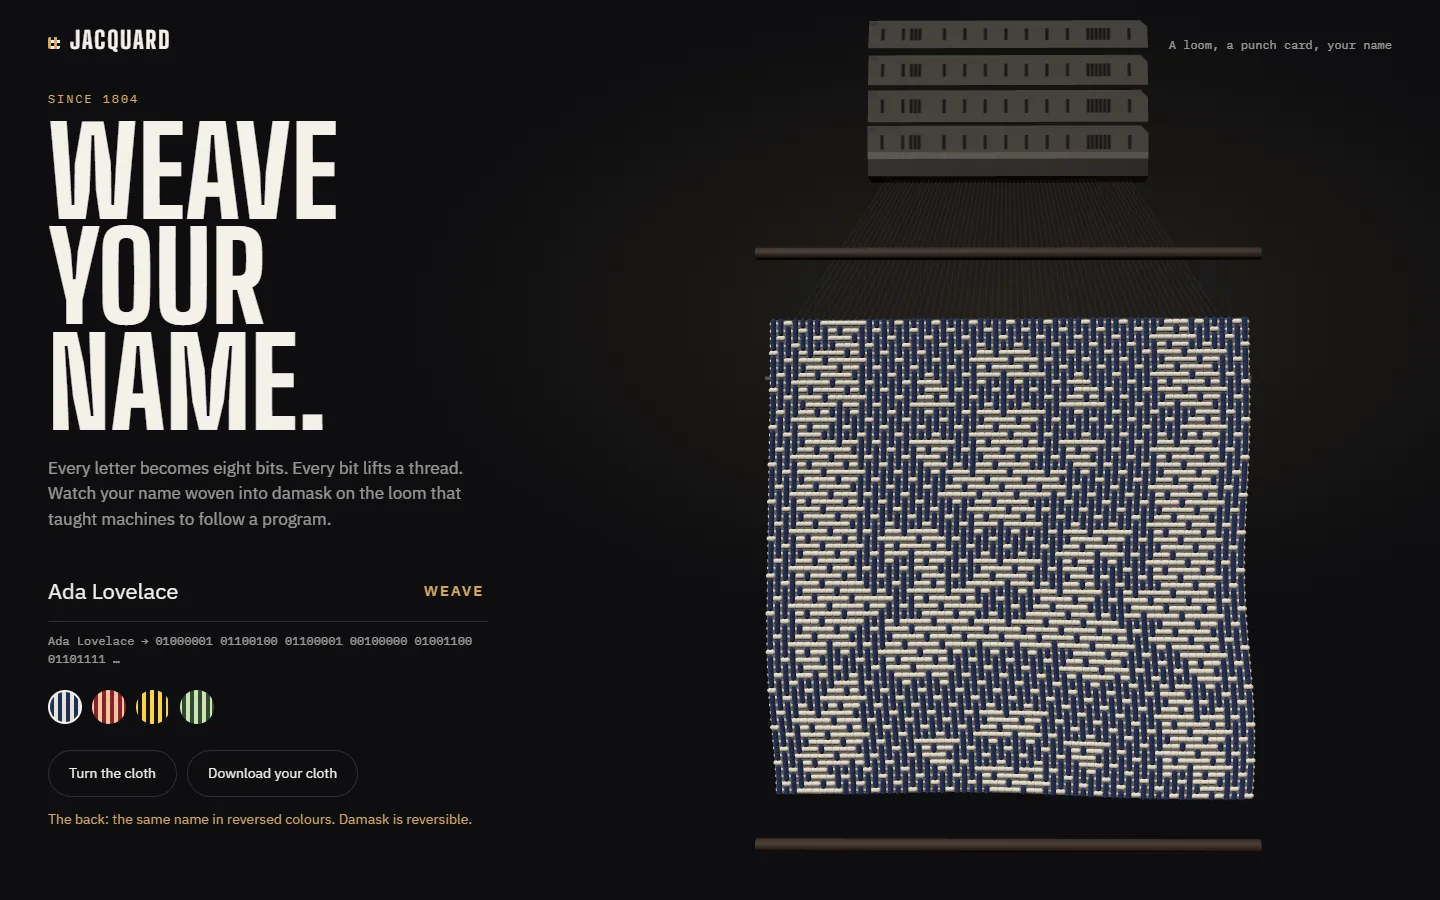
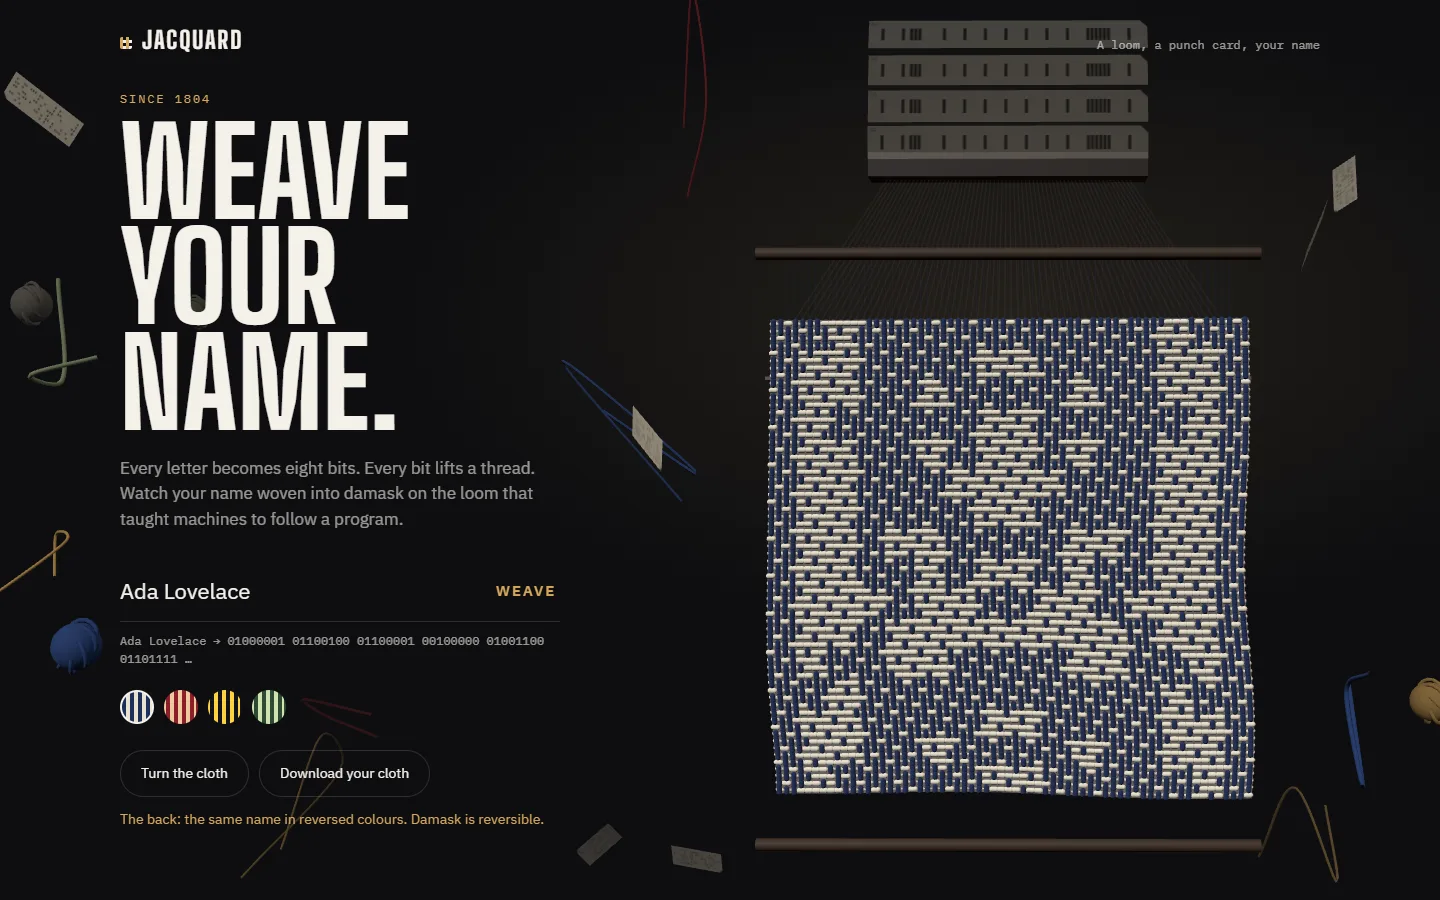
End-to-end tests, render on demand with reduced motion, README
Playwright covers weaving from a link, new names, the empty-name fallback,
turning the cloth, the PNG download, the colour picker and the timeline,
on desktop and mobile, and runs in CI. With reduced motion both 3D layers
now draw only when something changes instead of every frame. THREE.Clock
replaced by THREE.Timer. README documents the cosmos, timeline and tests.

diff --git a/src/loom.ts b/src/loom.ts
@@ -42,7 +42,7 @@ export class Loom {
   private uniforms = { uTime: { value: 0 }, uWave: { value: 0 }, uTop: { value: 0 }, uHeight: { value: 1 } };
   private resize: ResizeObserver;
   private frame = 0;
-  private clock = new THREE.Clock();
+  private timer = new THREE.Timer();
   private pointer = new THREE.Vector2();
   private cells: Uint8Array = new Uint8Array();
   private progress = 0; // rows woven, fractional
@@ -53,6 +53,8 @@ export class Loom {
   private turnTarget = 0;
   private drag: { x: number; turn: number } | null = null;
   private side: "front" | "back" = "front";
+  /** With reduced motion nothing animates, so only draw when something has changed. */
+  private dirty = true;
   private readonly rows: number;
   private readonly cols: number;
   private readonly width: number;
@@ -172,6 +174,7 @@ export class Loom {
     for (const card of this.cards) card.row = -1;
     this.setPalette(palette);
     this.layout(true);
+    this.dirty = true;
   }
 
   /** Recolours the cloth in place, without re-weaving. */
@@ -186,12 +189,15 @@ export class Loom {
     for (const layer of [this.front, this.back]) if (layer.instanceColor) layer.instanceColor.needsUpdate = true;
     (this.warp.material as THREE.LineBasicMaterial).color.copy(warp);
     (this.backing.material as THREE.MeshStandardMaterial).color.copy(warp.clone().lerp(weft, 0.5).multiplyScalar(0.4));
+    this.dirty = true;
   }
 
   /** Turns the finished cloth to show its other face. */
   turnOver() {
     if (this.phase === "weaving") return;
     this.turnTarget = Math.round(this.turnTarget / Math.PI) * Math.PI + Math.PI;
+    if (this.reducedMotion) this.turn = this.turnTarget; // no slow turn, just show the other side
+    this.dirty = true;
   }
 
   dispose() {
@@ -230,7 +236,11 @@ export class Loom {
   private onPointer = (event: PointerEvent) => {
     const rect = this.container.getBoundingClientRect();
     this.pointer.set(((event.clientX - rect.left) / rect.width) * 2 - 1, ((event.clientY - rect.top) / rect.height) * 2 - 1);
-    if (this.drag) this.turnTarget = this.drag.turn + (event.clientX - this.drag.x) * 0.012;
+    if (this.drag) {
+      this.turnTarget = this.drag.turn + (event.clientX - this.drag.x) * 0.012;
+      if (this.reducedMotion) this.turn = this.turnTarget;
+      this.dirty = true;
+    }
   };
 
   private onDown = (event: PointerEvent) => {
@@ -245,6 +255,8 @@ export class Loom {
     this.container.style.cursor = "";
     // settle on whichever face is nearer
     this.turnTarget = Math.round(this.turnTarget / Math.PI) * Math.PI;
+    if (this.reducedMotion) this.turn = this.turnTarget;
+    this.dirty = true;
   };
 
   private setSide(side: "front" | "back") {
@@ -264,6 +276,7 @@ export class Loom {
     if (this.camera.aspect > 1.25) this.camera.setViewOffset(w, h, -w * 0.2, 0, w, h);
     else this.camera.clearViewOffset();
     this.camera.updateProjectionMatrix();
+    this.dirty = true;
   }
 
   private x = (col: number) => (col - (this.cols - 1) / 2) * SPACING;
@@ -396,8 +409,11 @@ export class Loom {
 
   private loop = () => {
     this.frame = requestAnimationFrame(this.loop);
-    const dt = Math.min(this.clock.getDelta(), 0.1);
-    const t = this.clock.elapsedTime;
+    if (this.reducedMotion && !this.dirty) return;
+    this.dirty = false;
+    this.timer.update();
+    const dt = Math.min(this.timer.getDelta(), 0.1);
+    const t = this.timer.getElapsed();
     this.uniforms.uTime.value = t;
 
     if (this.phase === "weaving") {

diff --git a/e2e/loom.spec.ts b/e2e/loom.spec.ts
@@ -1,0 +1,66 @@
+import { expect, test } from "@playwright/test";
+
+test.describe("weaving a name", () => {
+  test("weaves the name from a shared link and finishes the cloth", async ({ page }) => {
+    await page.goto("/?name=Ada%20Lovelace");
+    await expect(page.getByLabel("Your name", { exact: true })).toHaveValue("Ada Lovelace");
+    await expect(page.locator("#binary")).toContainText("Ada Lovelace → 01000001 01100100");
+    await expect(page.locator("#card-count")).toHaveText("64 / 64");
+    await expect(page.getByRole("button", { name: "Download your cloth" })).toBeEnabled();
+    await expect(page.locator("#side")).toContainText("Off the loom");
+  });
+
+  test("weaves a new name and puts it in the link", async ({ page }) => {
+    await page.goto("/");
+    await page.getByLabel("Your name", { exact: true }).fill("Anu");
+    await page.getByRole("button", { name: "Weave" }).click();
+    await expect(page).toHaveURL(/name=Anu/);
+    await expect(page.locator("#binary")).toHaveText("Anu → 01000001 01101110 01110101");
+  });
+
+  test("an empty name falls back to the default", async ({ page }) => {
+    await page.goto("/");
+    await page.getByLabel("Your name", { exact: true }).fill("   ");
+    await page.getByRole("button", { name: "Weave" }).click();
+    await expect(page.locator("#binary")).toContainText("JACQUARD →");
+  });
+});
+
+test.describe("the finished cloth", () => {
+  test("turns over to show the reversed back, and back again", async ({ page }) => {
+    await page.goto("/?name=Ada");
+    const turn = page.getByRole("button", { name: "Turn the cloth" });
+    await expect(turn).toBeEnabled();
+    await turn.click();
+    await expect(page.locator("#side")).toContainText("The back", { timeout: 10_000 });
+    await turn.click();
+    await expect(page.locator("#side")).toContainText("The front", { timeout: 10_000 });
+  });
+
+  test("downloads the cloth as a PNG named after the weaver", async ({ page }) => {
+    await page.goto("/?name=Ada%20Lovelace");
+    const download = page.waitForEvent("download");
+    await page.getByRole("button", { name: "Download your cloth" }).click();
+    expect((await download).suggestedFilename()).toBe("jacquard-ada-lovelace.png");
+  });
+
+  test("lets you pick the thread colours", async ({ page }) => {
+    await page.goto("/?name=Ada");
+    const madder = page.getByRole("radio", { name: "Madder" });
+    await madder.click();
+    await expect(madder).toHaveAttribute("aria-checked", "true");
+    await expect(page.getByRole("radio", { name: "Indigo" })).toHaveAttribute("aria-checked", "false");
+  });
+});
+
+test("the timeline marks each era as you reach it", async ({ page }) => {
+  await page.goto("/?name=Ada");
+  const eras = page.locator(".era");
+  await expect(eras).toHaveCount(4);
+  for (let i = 0; i < 4; i++) {
+    // the 3D layers keep the page moving, so scroll directly rather than waiting for it to settle
+    await eras.nth(i).evaluate((el) => el.scrollIntoView({ block: "center" }));
+    await expect(eras.nth(i)).toHaveClass(/in/);
+  }
+  await expect(page.locator(".era h3").last()).toHaveText("Your cloth");
+});

diff --git a/src/cosmos.ts b/src/cosmos.ts
@@ -63,9 +63,14 @@ export class Cosmos {
   private anchors: Anchor[] = [];
   private unitsPerPixel = 1;
   private frame = 0;
-  private clock = new THREE.Clock();
+  private timer = new THREE.Timer();
   private swatchTexture: THREE.CanvasTexture | null = null;
   private readonly reducedMotion = window.matchMedia("(prefers-reduced-motion: reduce)").matches;
+  /** With reduced motion only the scroll moves things, so only draw when it (or the layout) changes. */
+  private dirty = true;
+  private markDirty = () => {
+    this.dirty = true;
+  };
 
   constructor(private canvasHost: HTMLElement) {
     this.renderer = new THREE.WebGLRenderer({ antialias: true, alpha: true });
@@ -80,6 +85,7 @@ export class Cosmos {
     this.scene.add(key);
 
     window.addEventListener("resize", this.fit);
+    window.addEventListener("scroll", this.markDirty, { passive: true });
     this.fit();
     this.populate();
     this.loop();
@@ -226,6 +232,7 @@ export class Cosmos {
       }
     }
     this.swatchTexture.needsUpdate = true;
+    this.dirty = true;
   }
 
   private fit = () => {
@@ -236,6 +243,7 @@ export class Cosmos {
     this.camera.updateProjectionMatrix();
     this.unitsPerPixel = (2 * Math.tan(THREE.MathUtils.degToRad(FOV / 2)) * CAMERA_Z) / h;
     this.place();
+    this.dirty = true;
   };
 
   /** Converts each anchor element's page position into world space at depth 0. */
@@ -254,7 +262,10 @@ export class Cosmos {
 
   private loop = () => {
     this.frame = requestAnimationFrame(this.loop);
-    const t = this.clock.getElapsedTime();
+    if (this.reducedMotion && !this.dirty) return;
+    this.dirty = false;
+    this.timer.update();
+    const t = this.timer.getElapsed();
     this.camera.position.set(0, -window.scrollY * this.unitsPerPixel, CAMERA_Z);
 
     if (!this.reducedMotion) {
@@ -277,11 +288,13 @@ export class Cosmos {
   /** Re-measures anchors after layout changes (fonts loading, images, resize). */
   refresh() {
     this.place();
+    this.dirty = true;
   }
 
   dispose() {
     cancelAnimationFrame(this.frame);
     window.removeEventListener("resize", this.fit);
+    window.removeEventListener("scroll", this.markDirty);
     this.renderer.dispose();
     this.canvasHost.removeChild(this.renderer.domElement);
   }

diff --git a/playwright.config.ts b/playwright.config.ts
@@ -1,0 +1,22 @@
+import { defineConfig, devices } from "@playwright/test";
+
+export default defineConfig({
+  testDir: "e2e",
+  timeout: 60_000,
+  // every page renders two WebGL scenes continuously; more parallel browsers starve the machine
+  workers: 2,
+  use: {
+    baseURL: "http://127.0.0.1:5199",
+    // with reduced motion the loom finishes at once, so tests don't wait for the animation
+    reducedMotion: "reduce",
+  },
+  projects: [
+    { name: "desktop", use: { ...devices["Desktop Chrome"], viewport: { width: 1440, height: 900 } } },
+    { name: "mobile", use: { ...devices["Pixel 7"] } },
+  ],
+  webServer: {
+    command: "npx vite --port 5199 --strictPort --host 127.0.0.1",
+    url: "http://127.0.0.1:5199",
+    reuseExistingServer: !process.env.CI,
+  },
+});

diff --git a/vite.config.ts b/vite.config.ts
@@ -1,0 +1,6 @@
+import { defineConfig } from "vitest/config";
+
+export default defineConfig({
+  // unit tests live next to the code; Playwright specs in e2e/ run separately
+  test: { include: ["src/**/*.test.ts"] },
+});

diff --git a/README.md b/README.md
@@ -29,7 +29,21 @@ The logic lives in [`src/weave.ts`](src/weave.ts) and is unit-tested, including 
 
 The finished cloth can be downloaded as a PNG, drawn flat thread by thread in [`src/export.ts`](src/export.ts). A link with `?name=` weaves that name.
 
+## The page around it
+
+- **A fibre cosmos.** [`src/cosmos.ts`](src/cosmos.ts) is a second, fixed Three.js layer behind the whole page: loose threads, yarn balls and stray punch cards at different depths. The camera moves down exactly as fast as the page scrolls, so things further back drift slower and closer ones faster. Near the loom they keep to the open lanes beside the text, so nothing crosses the cloth.
+- **A timeline hung on a thread.** The history below the loom hangs on a single warp thread that fills in brass as you read. Each era slides in from its side, and a 3D prop is pinned beside it by measuring the page element's position: a chain of laced cards (1804), two meshing brass gears turning at the right ratio (1843), a fanned stack of tabulator cards (1890) and a swatch of the cloth you just wove (now).
+
+![The timeline: the 1804 card sits on the brass thread, with a chain of punch cards beside it](docs/timeline.webp)
+
 Type is IBM Plex, a nod to the punch-card lineage, with Big Shoulders Display for the machine.
+
+## Tests
+
+- **Unit** (Vitest, `npm test`): the bits, the draft, the satin, mirroring and binding.
+- **End to end** (Playwright, `npm run test:e2e`, desktop and mobile): weaving from a shared link, a new name updating the link, the empty-name fallback, turning the cloth over and back, the PNG download and its filename, the colour picker, and each era of the timeline coming in as you scroll. They run with reduced motion, so the loom finishes at once.
+
+Both run in CI on every push.
 
 ## Stack
 
@@ -41,5 +55,6 @@ Three.js · TypeScript · Vite · Vitest · no framework
 npm install
 npm run dev
 npm test
+npm run test:e2e
 npm run build
 ```
